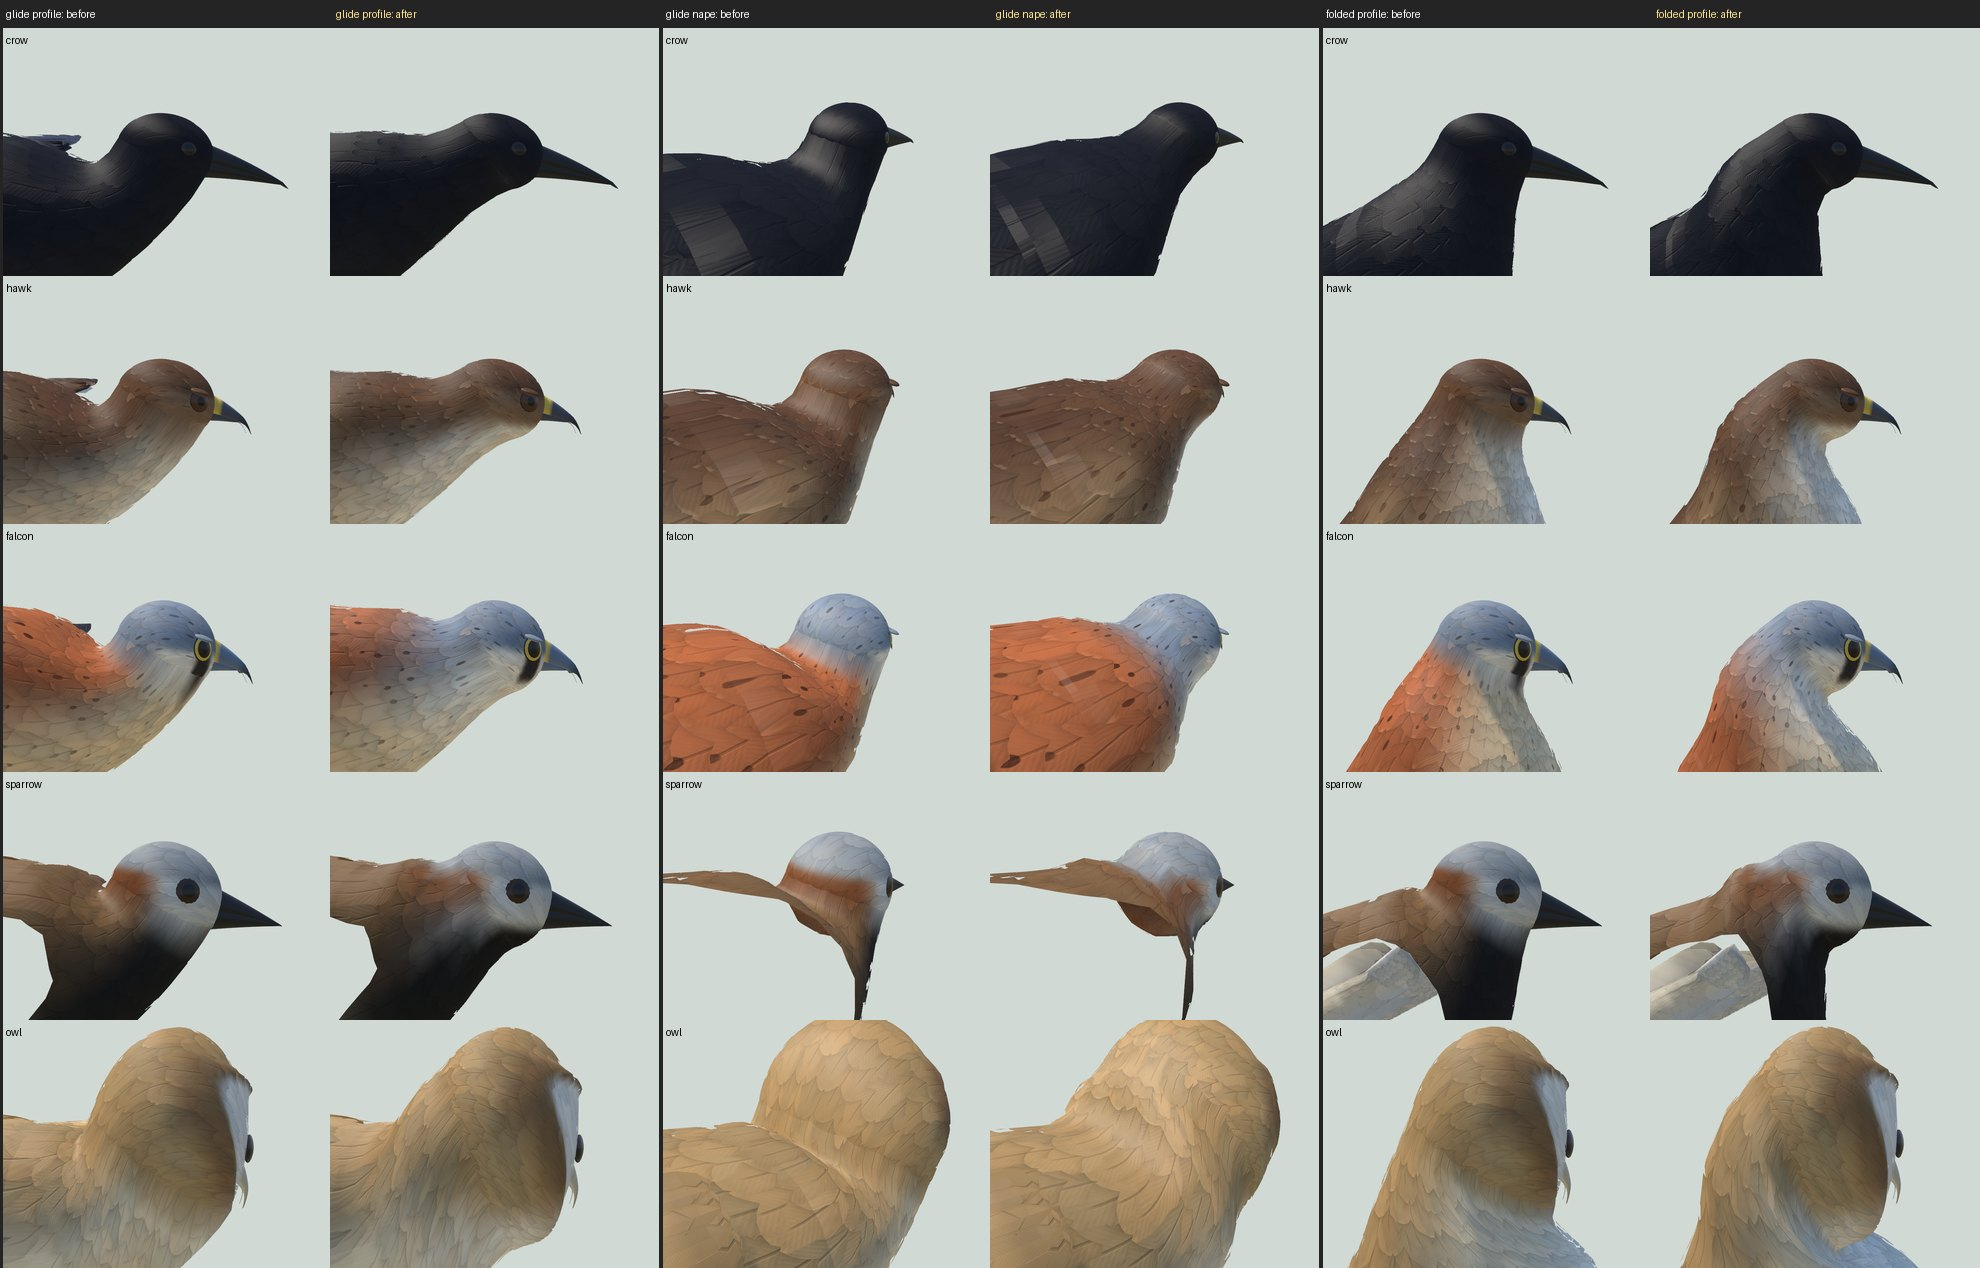
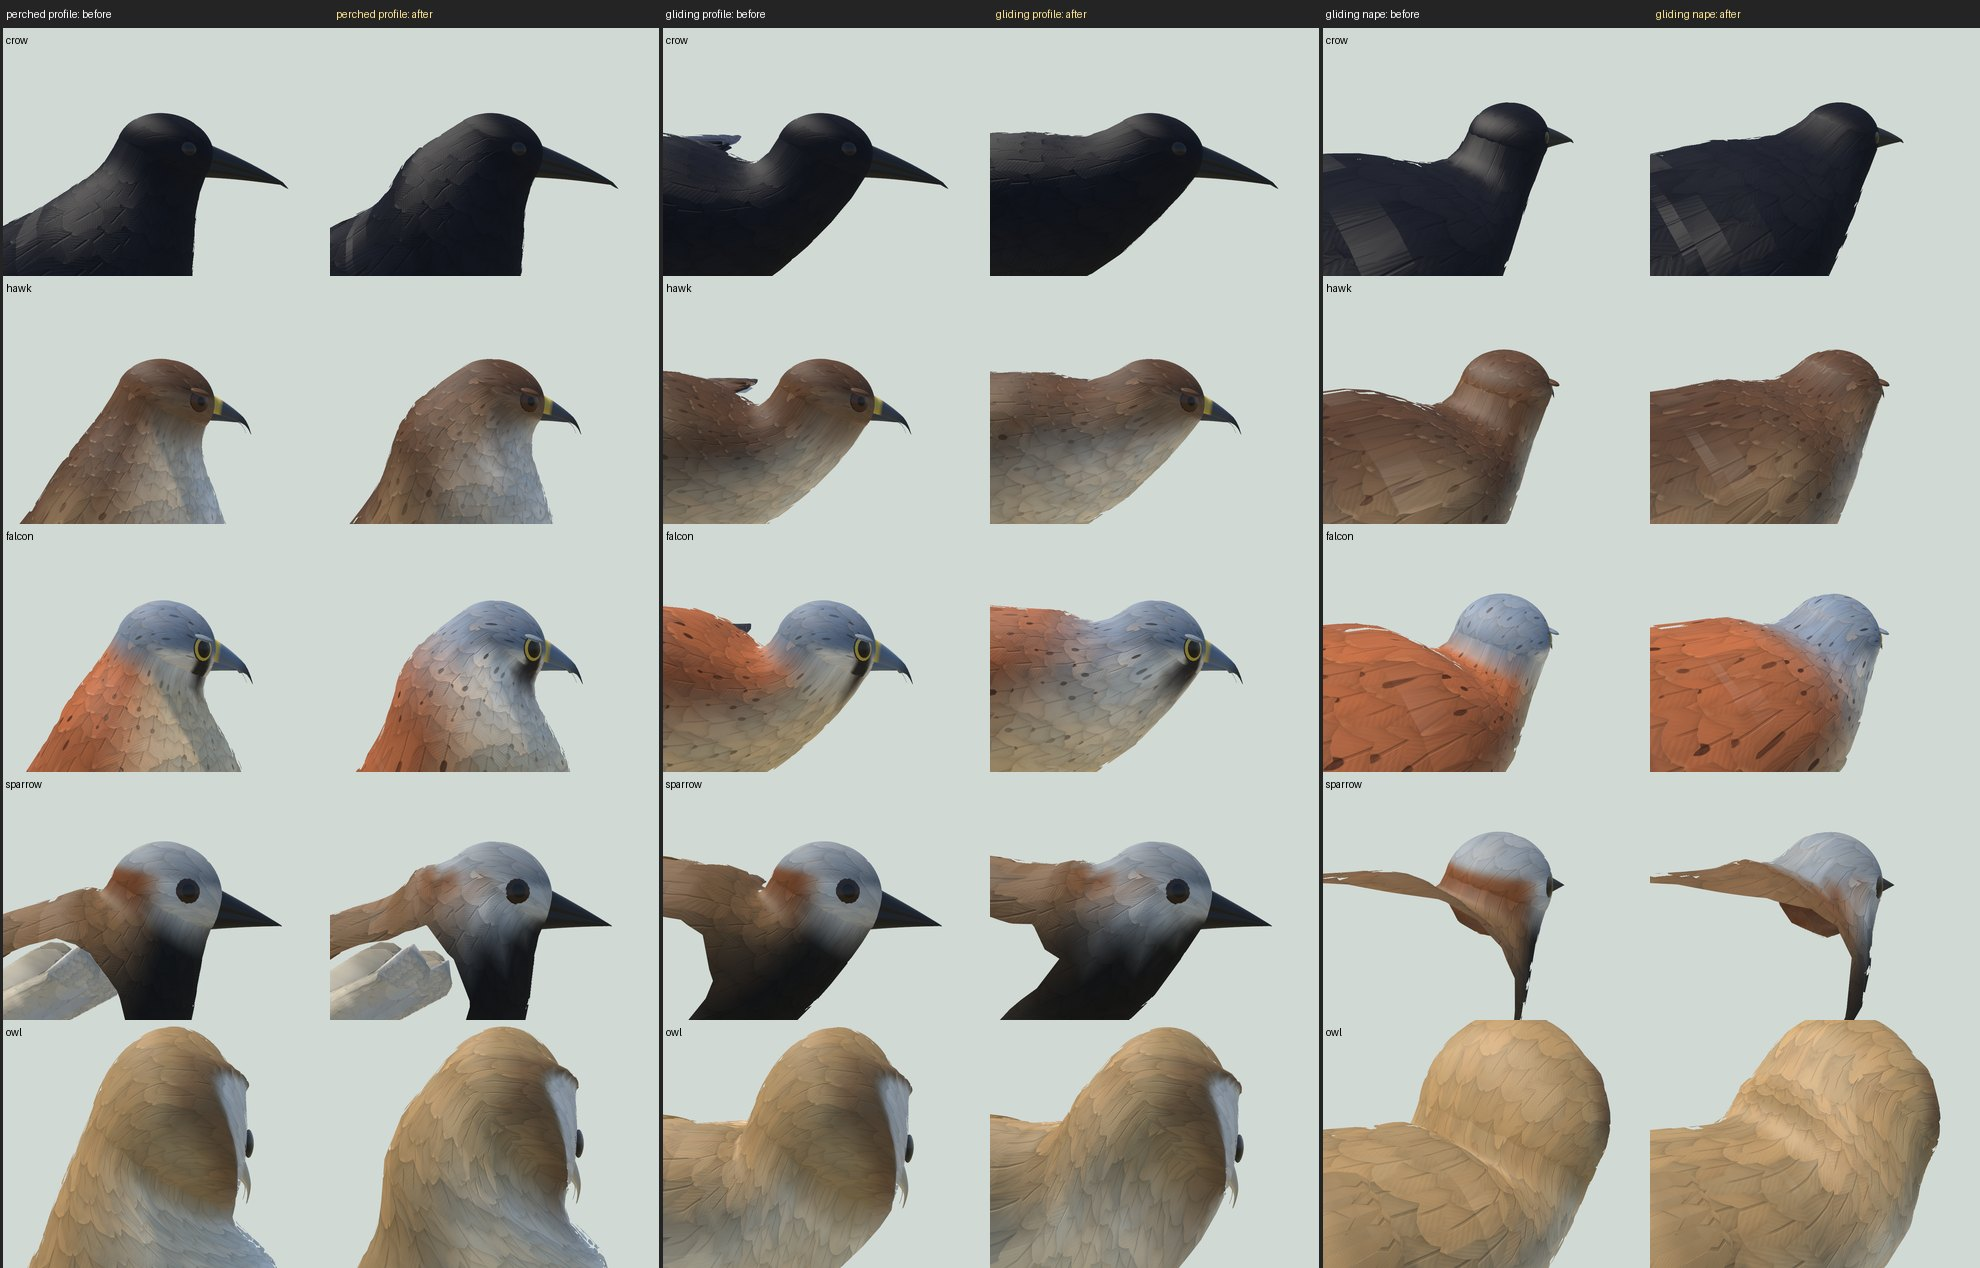
Neck seam: the throat runs from under the bill to the breast, so the perched head no longer looks thrust forward
The tipped-back ring that filled the nape crossed the throat at the very bottom of the head, where its surface runs
forward: perched, the throat curled in under the chin and the head read as thrust forward off the neck. On a real
perched bird the neck's S is hidden under its feathers, the head sits on the shoulders, and the throat feathers run
straight from the bill to the breast (docs/research/body_anatomy.md section 2).

- The ring's angle varies round it (_ring_th): on the nape as before, on the throat NECK_THROAT (1.25 rad) up from
  straight down, just under the bill. The head's mesh rows grade to it; its feather chart scales each angle by the
  ring's own radius, so the ring stays the chart's unit circle.
- The head's throat colour zone starts just under the bill (Plumage.head), where the neck's throat feathers now meet
  it (the hawk's white throat, the sparrow's bib); the face's marks (the falcon's malar stripe) fade out down the neck.
- test_neck_seam: perched, the front's outline from the face down (the head above the ring, the neck, the trunk)
  dips in under the chin by at most 0.23 head radii (was 0.32 for the crow). Mutation neck-throat-curled KILLED;
  head-colours-stop-at-ring's find text updated. A/B image redone with perched, gliding and nape views.

diff --git a/docs/design/wing_rig.md b/docs/design/wing_rig.md
@@ -124,7 +124,7 @@ The model uses 1.5 spans with a 1.5 m minimum, a deliberate exaggeration so down
   - The drawn wing then matches the flight model's span, area and aspect ratio exactly. `test_wing_shape` checks this.
 - **`scripts/bird/bird_rig.gd` (`BirdRig`)** is the model.
   - A `Skeleton3D` holds the bones: body, three neck bones, head, tail, and per side the humerus, forearm, hand, femur, tibia and tarsus.
-  - The body (`BodyShape`, `scripts/bird/body_shape.gd`; plan in `body_rig_plan.html`) is a rigid trunk whose shell is lofted through rings placed from the landmarks (shoulders, keel, hips, tail base). The neck retracts into an S on the perch and reaches out in flight (`neck_ext`); its feather tube runs straight from inside the trunk to the head. Where it meets the head and the trunk it is flush, as feathers make it (`_loft_neck`, `test_neck_seam`, A/B `docs/images/neck_seam_before_after.jpg`): the head's neck ring is tipped back (`NECK_TILT`), high on the nape where the skull runs on along the neck and low under the chin, so no notch shows behind the head; each lengthwise line of the tube is a cubic leaving the trunk along its surface and entering the head along its (no crease), its rows packed by both ends (`NECK_PACK`) and a little fuller mid-way (`NECK_FULL`); both end rings take the true surface's normals, the head's and trunk's own pinned to the same (`LoftMesh.pin_first/pin_last`), so the light runs on; and the head's colours run on down the neck (`_hcol_ext`), handed over to the body's along its middle (`_head_share`), the feather texture as strong at the ring as on the trunk. The GPU neck (`neck_place.gdshaderinc`) does the same from the bird's tables. The folded wing's elbow and wrist are slid onto the shell.
+  - The body (`BodyShape`, `scripts/bird/body_shape.gd`; plan in `body_rig_plan.html`) is a rigid trunk whose shell is lofted through rings placed from the landmarks (shoulders, keel, hips, tail base). The neck retracts into an S on the perch and reaches out in flight (`neck_ext`); its feather tube runs straight from inside the trunk to the head. Where it meets the head and the trunk it is flush, as feathers make it (`_loft_neck`, `test_neck_seam`, A/B `docs/images/neck_seam_before_after.jpg`): the head's neck ring is tipped back (`NECK_TILT`), high on the nape where the skull runs on along the neck, so no notch shows behind the head, and on the throat it rises to just under the bill (`_ring_th`, `NECK_THROAT`): perched, a bird's throat feathers run straight from the bill to the breast (the neck's S hidden under them, the head on the shoulders), and a ring crossing the throat at the bottom of the head curled the throat in and thrust the head forward; each lengthwise line of the tube is a cubic leaving the trunk along its surface and entering the head along its (no crease), its rows packed by both ends (`NECK_PACK`) and a little fuller mid-way (`NECK_FULL`); both end rings take the true surface's normals, the head's and trunk's own pinned to the same (`LoftMesh.pin_first/pin_last`), so the light runs on; and the head's colours run on down the neck (`_hcol_ext`; the face's marks, the falcon's malar stripe, fading out on it), handed over to the body's along its middle (`_head_share`), the head's throat zone starting just under the bill (`Plumage.head`), the feather texture as strong at the ring as on the trunk. The GPU neck (`neck_place.gdshaderinc`) does the same from the bird's tables. The folded wing's elbow and wrist are slid onto the shell.
   - Every tick, `apply_pose()` solves the wing, legs and head, writes the skeleton, and lays out about 120 feathers. Feathers use one shared tapered mesh in two `MultiMesh`es, plain and emarginated (slotted).
   - The solve is analytic, in GDScript:
     - The wing is FK from the control values, plus a two-bone IK onto the flank anchor as it folds.

diff --git a/AGENTS.md b/AGENTS.md
@@ -87,7 +87,7 @@ Guardrail 4 applies: **build and run the tests after any code change** (`.\build
   where it meets wood) and the escape it flies instead (`AIPilot.escape`); visual only, `test_route_view` reads it back), `scripts/test_support/`.
 - `scripts/bird/body_shape.gd`: `BodyShape`, the body's landmarks and lofted shell (`docs/design/body_rig_plan.html`). The neck
   meets the head and trunk flush, lit and coloured as one (`BirdRig._loft_neck`, `docs/design/wing_rig.md`; `test_neck_seam` measures
-  the crease, the normals, the nape's notch and the colour hand-over; the rig gallery's `--view nape|throat` look at it).
+  the crease, the normals, the nape's notch, the perched throat and the colour hand-over; the rig gallery's `--view nape|throat` look at it).
 - `scripts/tack/`: the war tack, visual only (`Tack.fit(rig, bird)`): `Saddle` (harness, seat, launcher, laid out on
   `BackSurface`), `Rider` (head, helmet and goggles fitted to `HeadShape`), `TackMesh` + the leather/metal/
   cloth/skin/eye shaders. Look at it with
